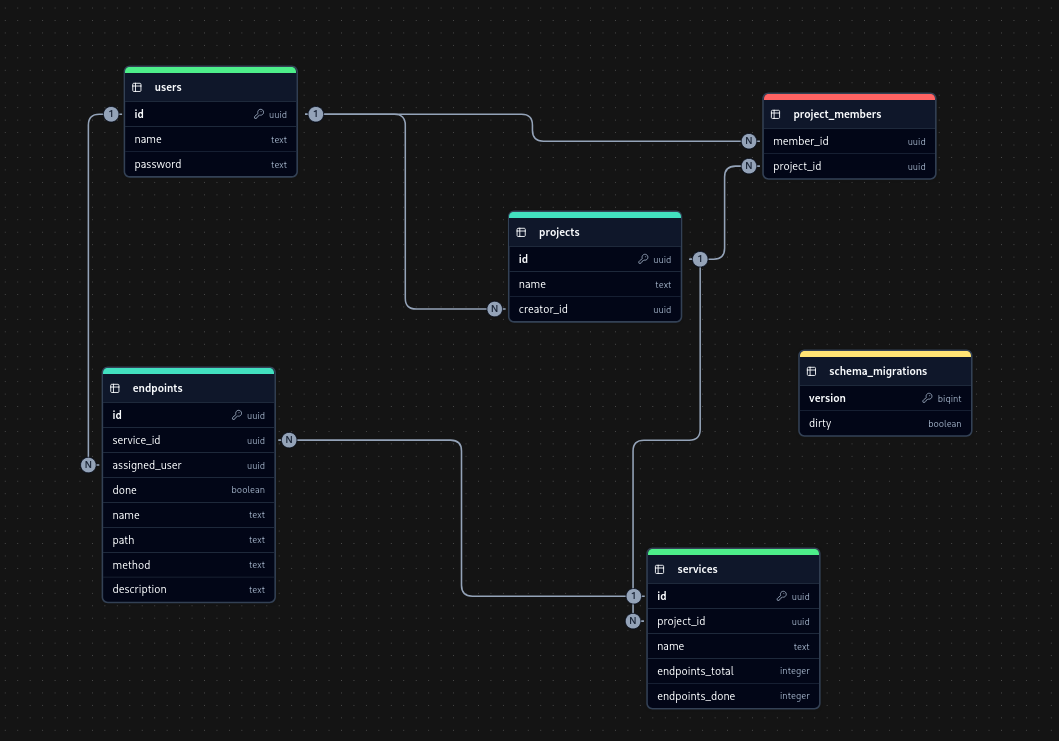
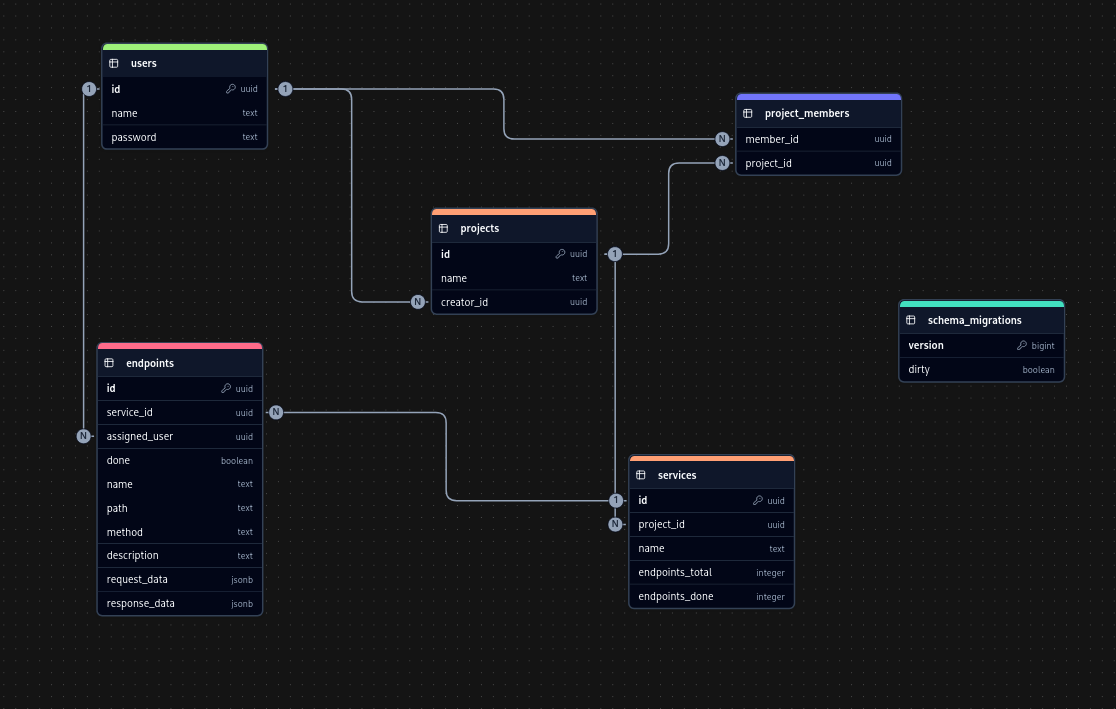
endpoint migrations updated

diff --git a/backend/internal/infrastructure/database/sqlc/storage/models.go b/backend/internal/infrastructure/database/sqlc/storage/models.go
@@ -17,6 +17,8 @@ type Endpoint struct {
 	Path         string
 	Method       string
 	Description  string
+	RequestData  []byte
+	ResponseData []byte
 }
 
 type Project struct {
